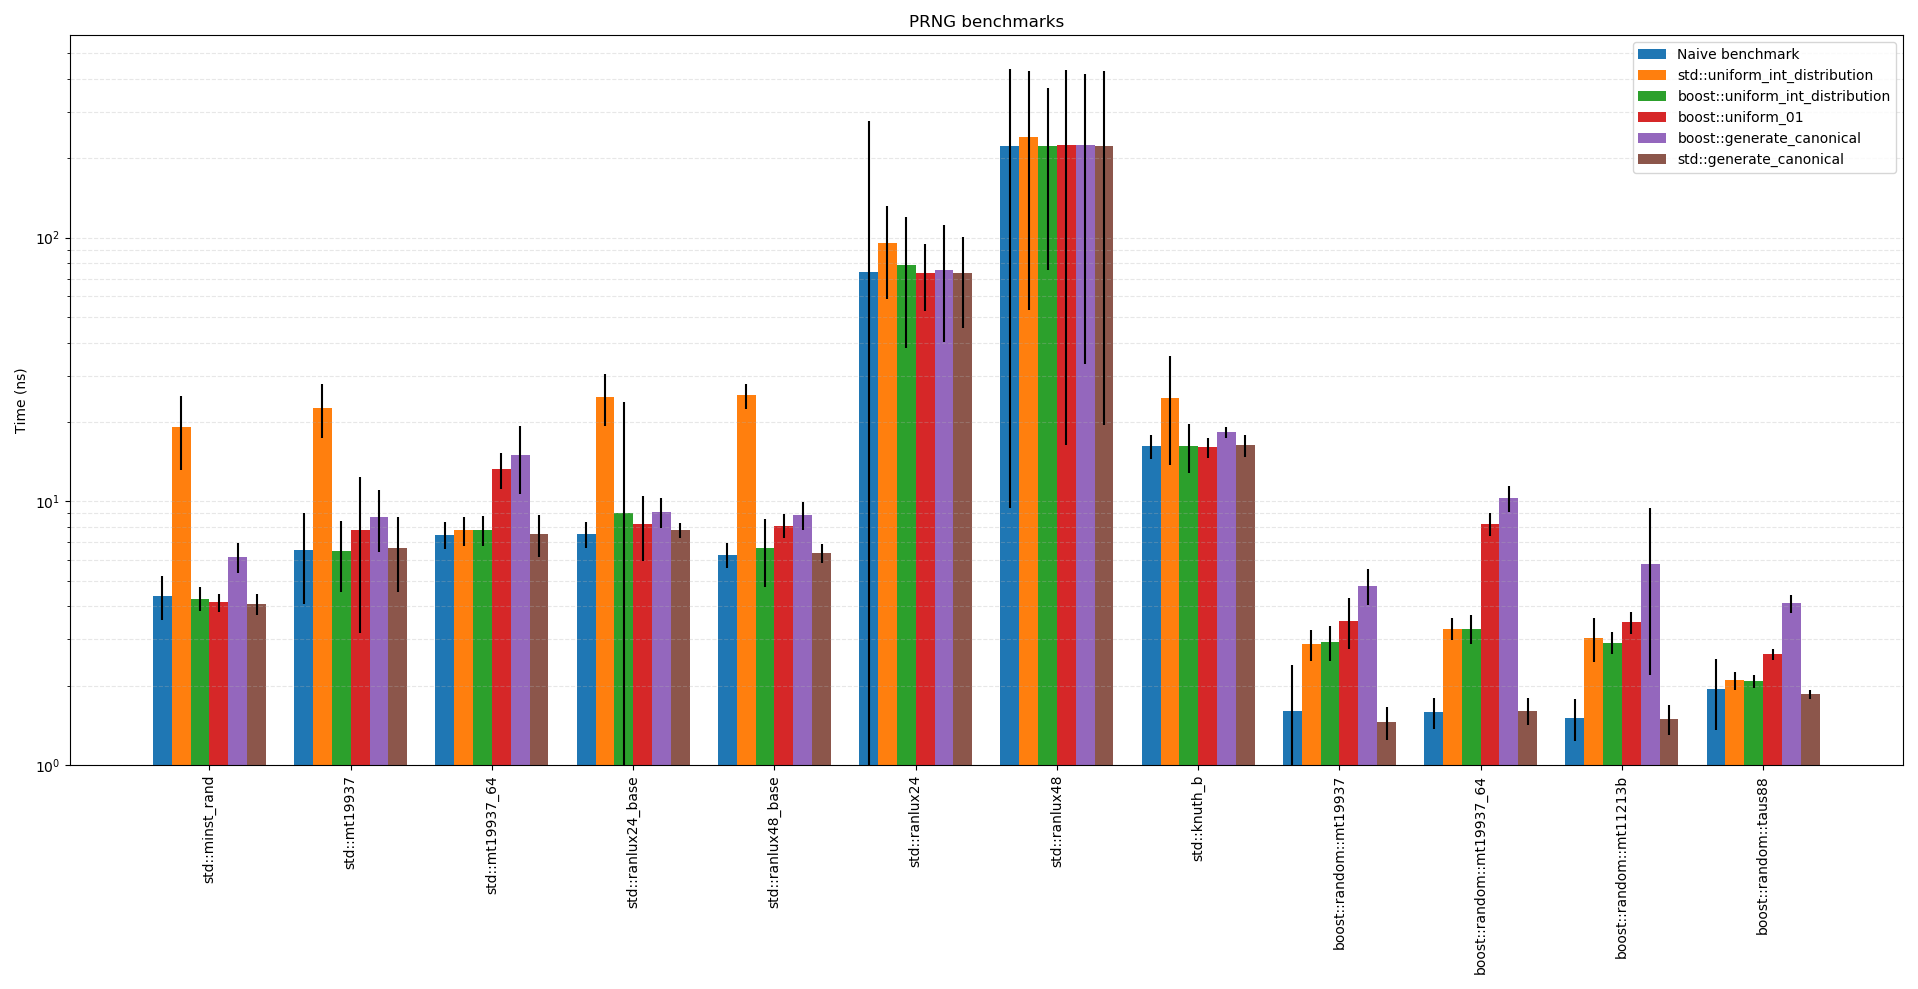
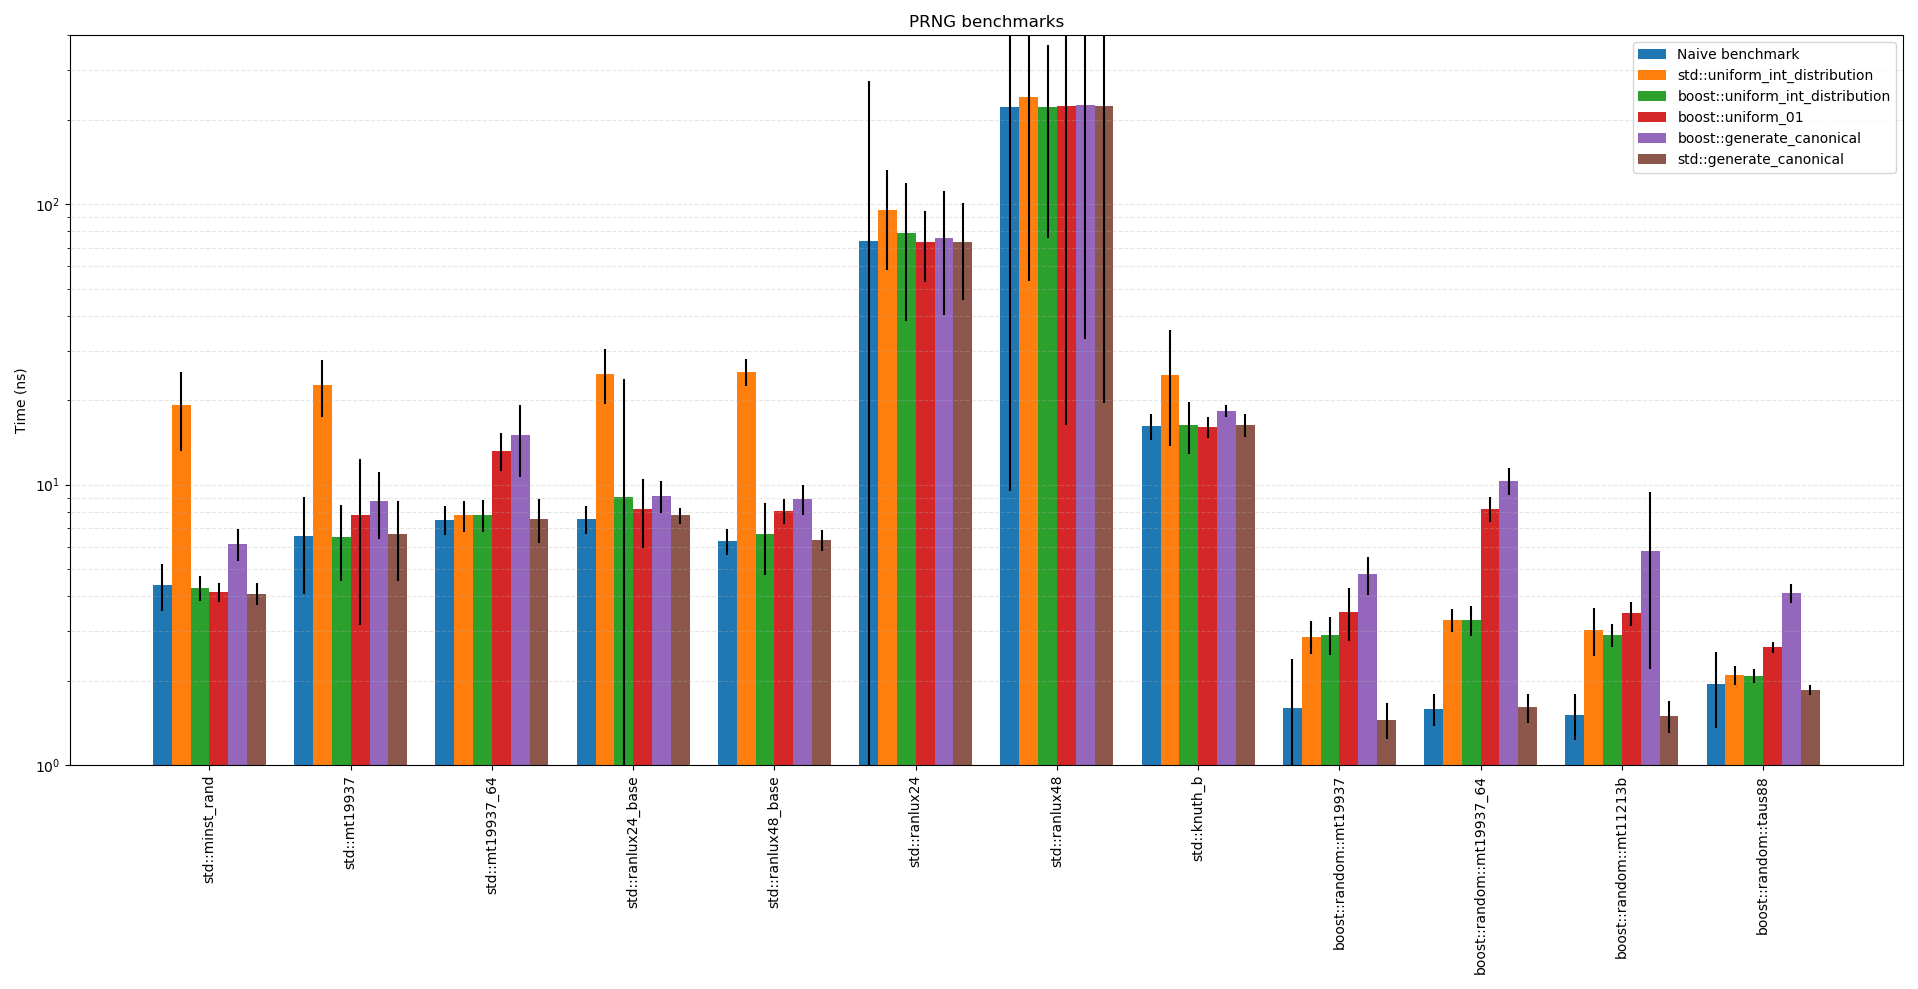
fix upperlimit in plots

diff --git a/plot_results.py b/plot_results.py
@@ -33,7 +33,7 @@ def main(infile, output):
     axes.set_xticklabels(PRNGs)
     axes.tick_params(axis='x', labelrotation=90)
     axes.set_yscale('log')
-    axes.set_ylim(1e-0)
+    axes.set_ylim(1, 400)
     axes.legend()
 
     #plt.tight_layout(pad=0, w_pad=0, h_pad=0)
